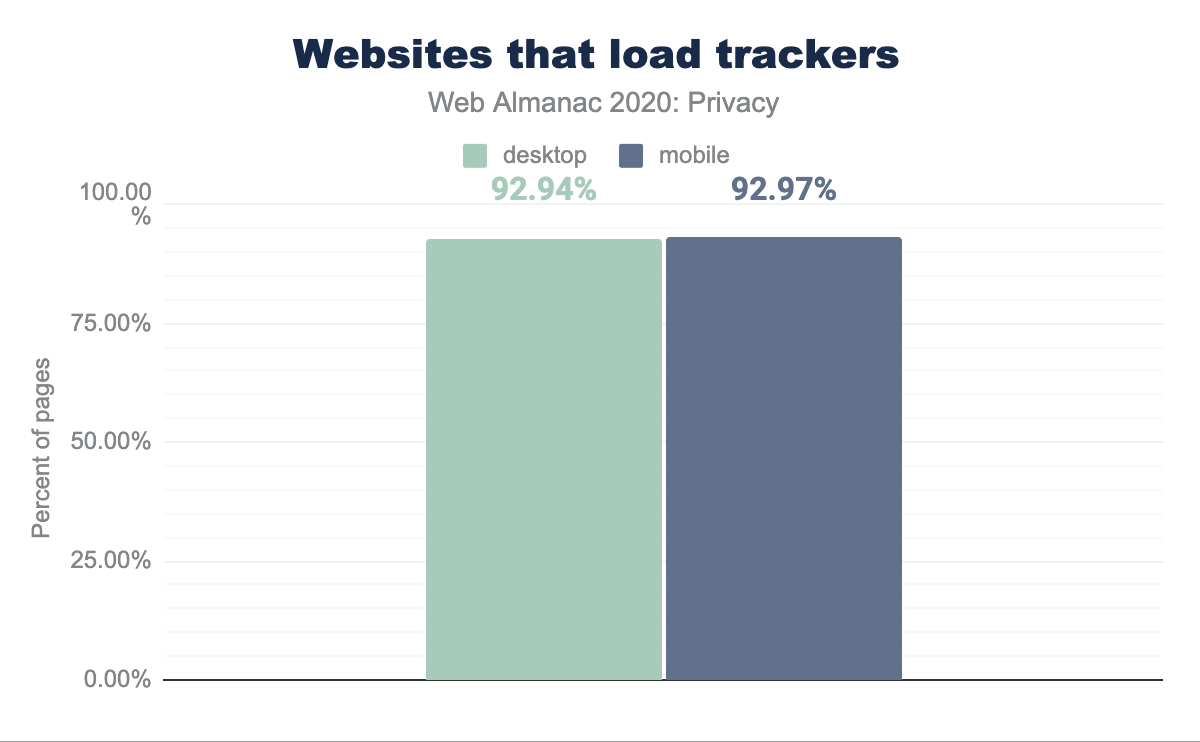
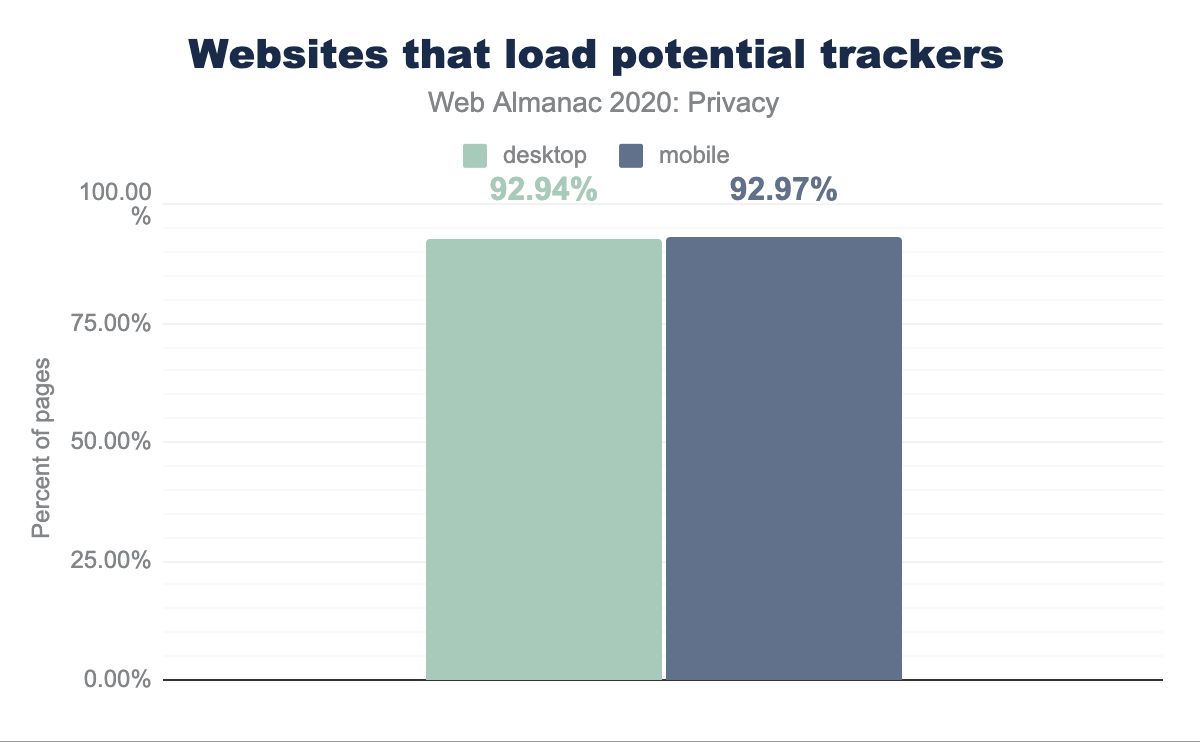
Add edits for CDNs and Hosting categories

Changed region(s): [[0.1542, 0.031, 0.8325, 0.093], [0.6167, 0.217, 0.7092, 0.279], [0.4008, 0.217, 0.4933, 0.279]]

diff --git a/src/content/en/2020/privacy.md b/src/content/en/2020/privacy.md
@@ -33,11 +33,11 @@ We examine the prominence of the most common types of [third-party](./third-part
 
 ### Third-party trackers
 
-We use [WhoTracksMe](https://whotracks.me/)'s tracker list to determine the percentage of websites that issue a request to a tracker. As shown in the following figure, we have found that at least one tracker is present on roughly 93% of websites.
+We use [WhoTracksMe](https://whotracks.me/)'s tracker list to determine the percentage of websites that issue a request to a potential tracker. As shown in the following figure, we have found that at least one potential tracker is present on roughly 93% of websites.
 
 {{ figure_markup(
   image="privacy-websites-that-load-trackers.png",
-  caption="Websites including at least one tracker",
+  caption="Websites including at least one potential tracker",
   description="Bar chart showing that 92.94% of desktop websites and 92.97% of mobile websites load trackers.",
   chart_url="https://docs.google.com/spreadsheets/d/e/2PACX-1vQJMtHv0Y1JcQJkcVyrqBk9dsujZeDtOZEv7uvE0xM2VrQSuTUDFya41TeRlTZDDe2rWmHwDghW3Dev/pubchart?oid=1325818112&format=interactive",
   sheets_gid="1591448294"
@@ -47,29 +47,39 @@ We use [WhoTracksMe](https://whotracks.me/)'s tracker list to determine the perc
 We examined the most widely used trackers and plot the prevalence of the 10 most popular ones.
 
 {{ figure_markup(
-  image="privacy-biggest-third-party-trackers.png",
-  caption="Top 10 Trackers",
-  description="Bar chart showing the prevalence of the 10 most popular trackers used on mobile and desktop clients. There is little difference between desktop and mobile and mobile has 65.9% for google_analytics, 65.5% for googleapis.com, 63.3% for gstatic, 58.3% for google_fonts, 50.0% for doubleclick, 47.6% for google, 42.4% for google_tag_manage, 30.9% for facebook, 19.2% for google_adservices, and 13.1% for cloudflare.",
+  image="privacy-biggest-third-party-potential-trackers.png",
+  caption="Top 10 Potential Trackers",
+  description="Bar chart showing the prevalence of the 10 most popular potential trackers used on mobile and desktop clients. There is little difference between desktop and mobile and mobile has 65.5% for google_analytics, 65.9% for googleapis.com, 63.3% for gstatic, 58.3% for google_fonts, 50.0% for doubleclick, 47.6% for google, 42.4% for google_tag_manager, 30.9% for facebook, 19.2% for google_adservices, and 12.7% for cloudflare.",
   chart_url="https://docs.google.com/spreadsheets/d/e/2PACX-1vQJMtHv0Y1JcQJkcVyrqBk9dsujZeDtOZEv7uvE0xM2VrQSuTUDFya41TeRlTZDDe2rWmHwDghW3Dev/pubchart?oid=850649042&format=interactive",
-  sheets_gid="1677398038",
-  sql_file="top100_cookies_set_from_header.sql"
+  sheets_gid="1677398038"
   )
 }}
 
 The largest player on the online tracking market is without doubt Google, with eight of its tracking domains present in the top 10 trackers and prevalent on at least 70% of websites. They are followed are Facebook and Cloudflare–though the latter is probably more reflective of the popularity of them as a hosting site.
 
-WhoTracksMe's tracker list also defines categories that the trackers belong to. The following figure shows the distribution of the different categories for the 100 largest trackers.
+WhoTracksMe's tracker list also defines categories that the trackers belong to. If we remove CDNs and Hosting sites from our statistics, under the assumption they may not track—or at least that that is not their primary function—then you get a slightly different view of the top 10, though not that dissimilar:
+
+{{ figure_markup(
+  image="privacy-biggest-third-party-trackers.png",
+  caption="Top 10 Trackers",
+  description="Bar chart showing the prevalence of the 10 most popular trackers used on mobile and desktop clients. There is little difference between desktop and mobile and mobile has 65.5% for google_analytics, 50.0% for doubleclick, 47.6% for google, 42.4% for google_tag_manager, 30.9% for facebook, 19.2% for google_adservices, 12.7% for youtube, 19.2% for google_syndication, and 6.5% for both twitter and wordpress_stats.",
+  chart_url="https://docs.google.com/spreadsheets/d/e/2PACX-1vQJMtHv0Y1JcQJkcVyrqBk9dsujZeDtOZEv7uvE0xM2VrQSuTUDFya41TeRlTZDDe2rWmHwDghW3Dev/pubchart?oid=1525236727&format=interactive",
+  sheets_gid="1163050723"
+  )
+}}
+
+Here Google still makes up 70% of the top 10. The following figure shows the distribution of the different categories for the 100 largest potential trackers by category.
 
 {{ figure_markup(
   image="privacy-tracker-categories.png",
-  caption="Categories of the 100 most popular trackers",
-  description="Bar chart showing distribution of the top 100 trackers on the web with 56 for advertising, 11 for cdn, 9 for site_analytics, 6 for both social media and misc, 3 for both essential and customer_help, 2 for both audio and video and 1 for both comments and undefined.",
+  caption="Categories of the 100 most popular potential trackers",
+  description="Bar chart showing distribution of the top 100 potential trackers on the web with 56 for advertising, 11 for cdn, 9 for site_analytics, 6 for both social media and misc, 3 for both essential and customer_help, 2 for both audio and video and 1 for both comments and undefined.",
   chart_url="https://docs.google.com/spreadsheets/d/e/2PACX-1vQJMtHv0Y1JcQJkcVyrqBk9dsujZeDtOZEv7uvE0xM2VrQSuTUDFya41TeRlTZDDe2rWmHwDghW3Dev/pubchart?oid=1117413918&format=interactive",
   sheets_gid="1431872451",
   )
 }}
 
-Nearly 60% of the most popular trackers are advertising-related. This could be due to the profitability of the online advertising market.
+Nearly 60% of the most popular trackers are advertising-related. This could be due to the profitability of the online advertising market being perceived to be related to the amount of tracking.
 
 ### Cookies
 
